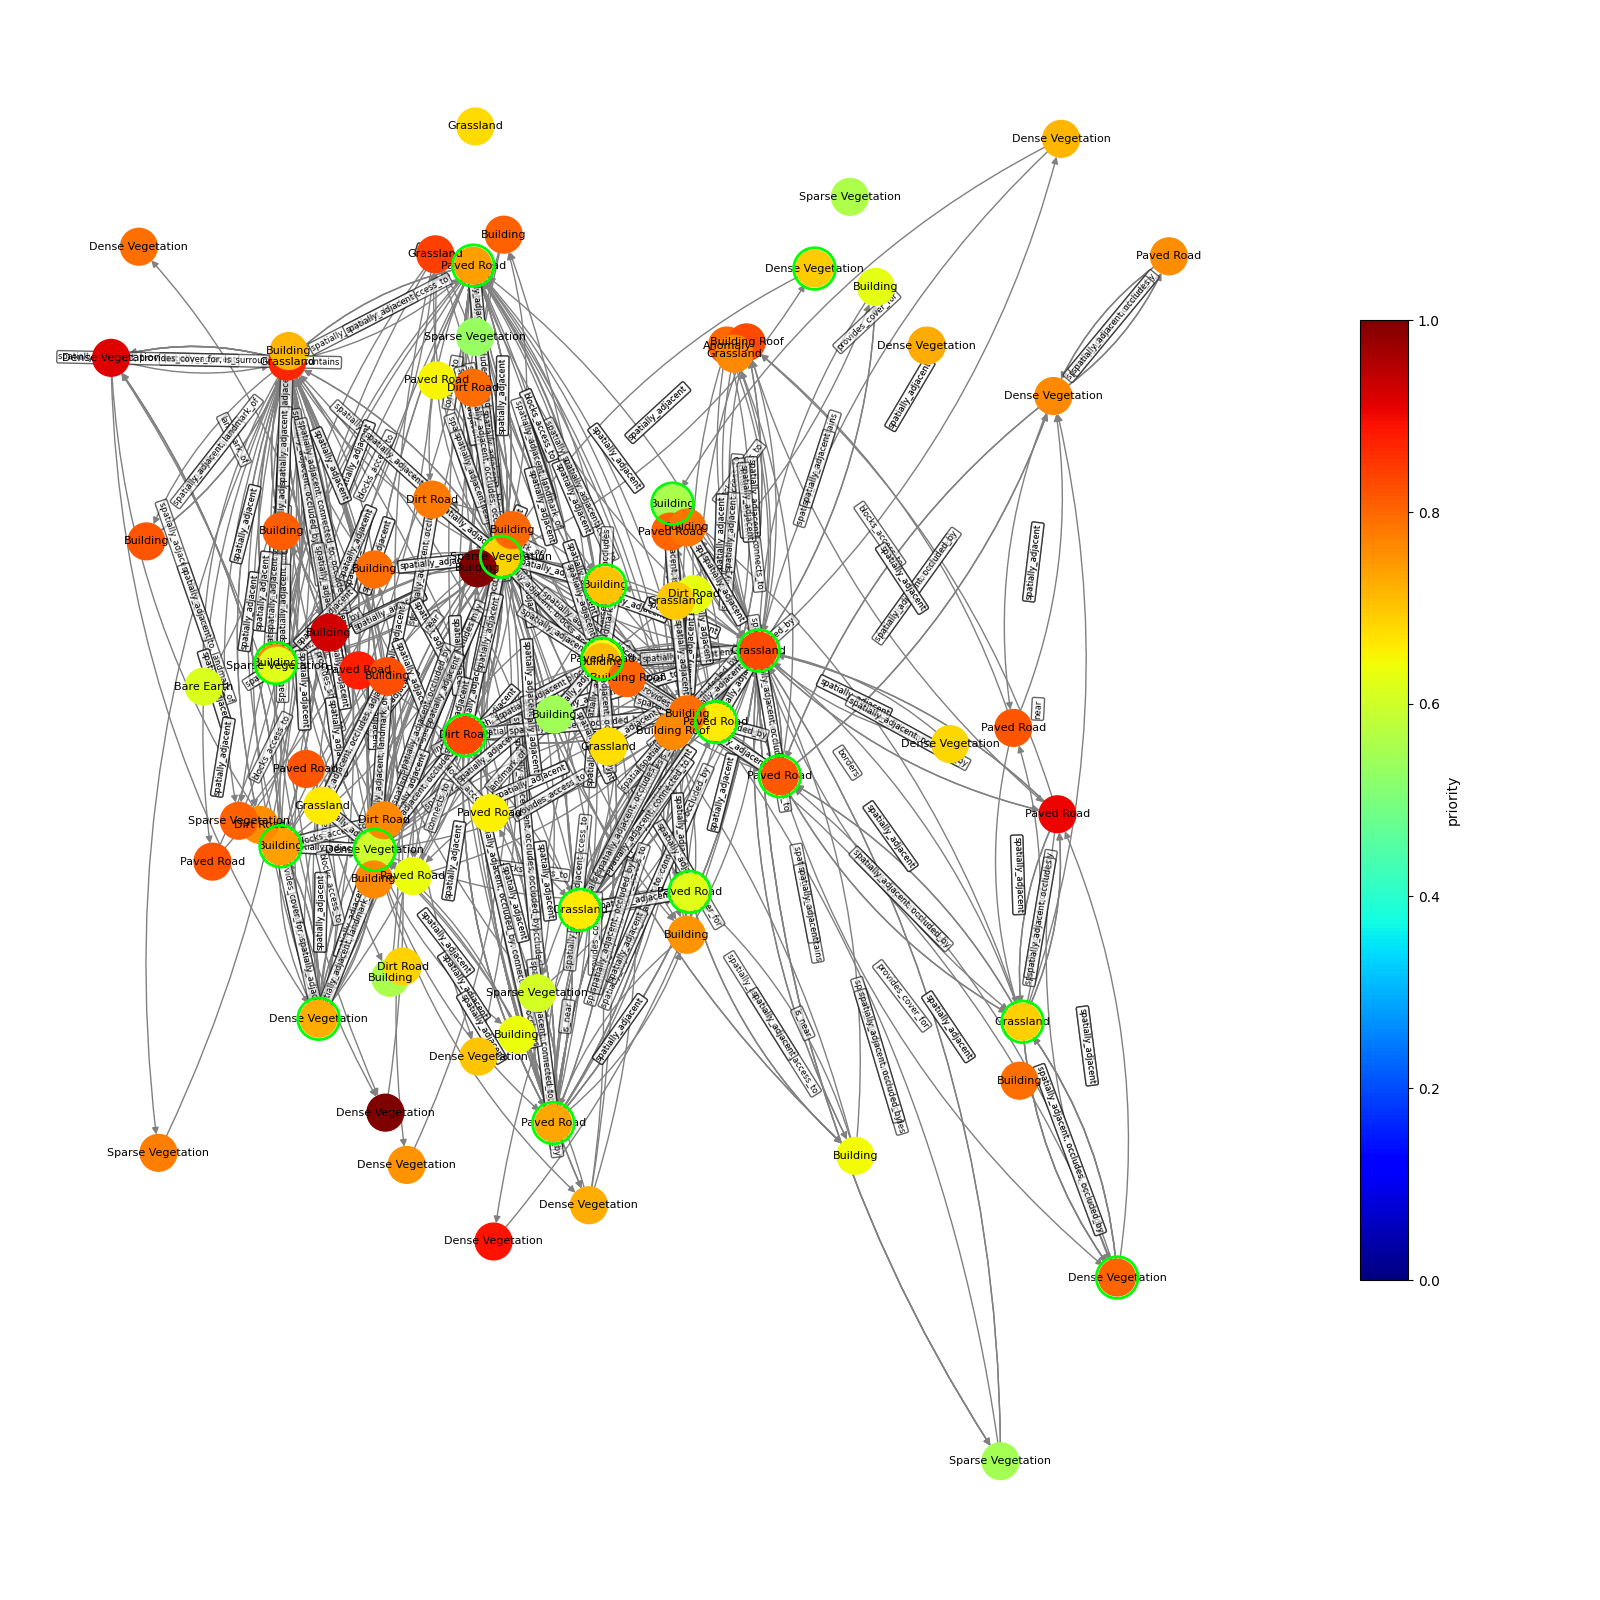
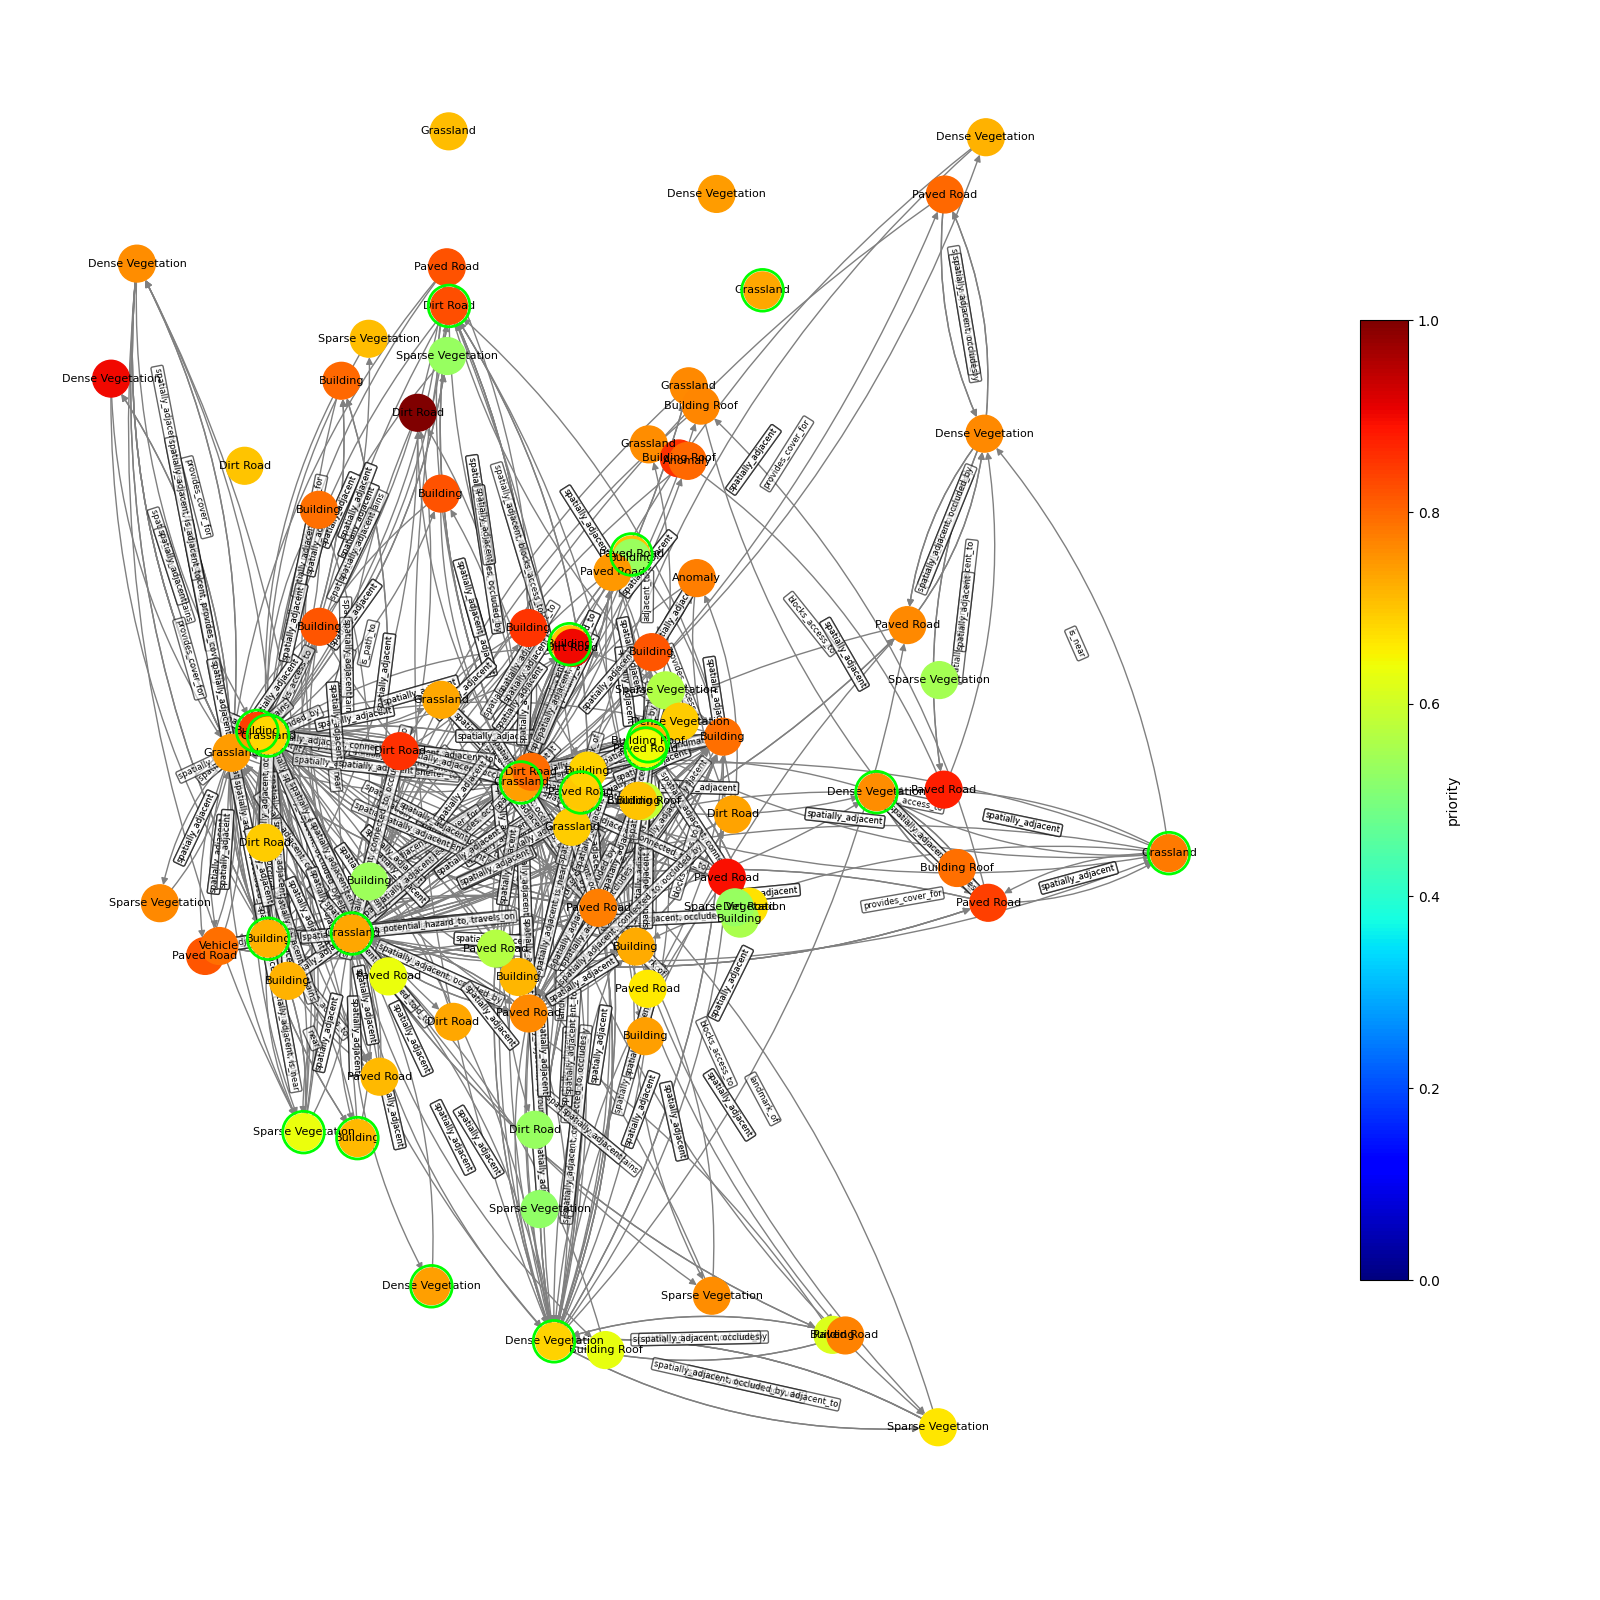
updating images for consistency

diff --git a/index.html b/index.html
@@ -343,7 +343,7 @@
               <div class="columns is-mobile is-variable is-2" style="display: grid; grid-template-columns: repeat(2, minmax(0, 1fr)); column-gap: 1.5rem; row-gap: 0.5rem; margin: 0;">
                 <div class="column has-text-centered search-example-card" style="min-width: 0; padding: 0;">
                   <p class="figure-caption"><b>Query-agnostic pass of the scene</b></p>
-                  <img src="./static/compacted_graph_final%201.png"
+                  <img src="./static/compacted_graph_final 1.png"
                        alt="Compact graph visualization"
                        style="width: 100%; height: auto;">
                 </div>
@@ -357,13 +357,13 @@
                 
                 <div class="column has-text-centered search-example-card" style="min-width: 0; padding: 0;">
                   <p class="figure-caption"><b>"Find areas where I can find wild animals"</b></p>
-                  <img src="./static/query_annotated_graph%201%201.png"
+                  <img src="./static/query_annotated_graph_animal.png"
                        alt="Query-annotated graph 1"
                        style="width: 100%; height: auto;">
                 </div>
                 <div class="column has-text-centered search-example-card" style="min-width: 0; padding: 0;">
                   <p class="figure-caption"><b>Top nodes relevant to animal search prompt</b></p>
-                  <img src="./static/graph%201.png"
+                  <img src="./static/animal_subgraph.png"
                        alt="Graph visualization"
                        style="width: 100%; height: auto;">
                 </div>
